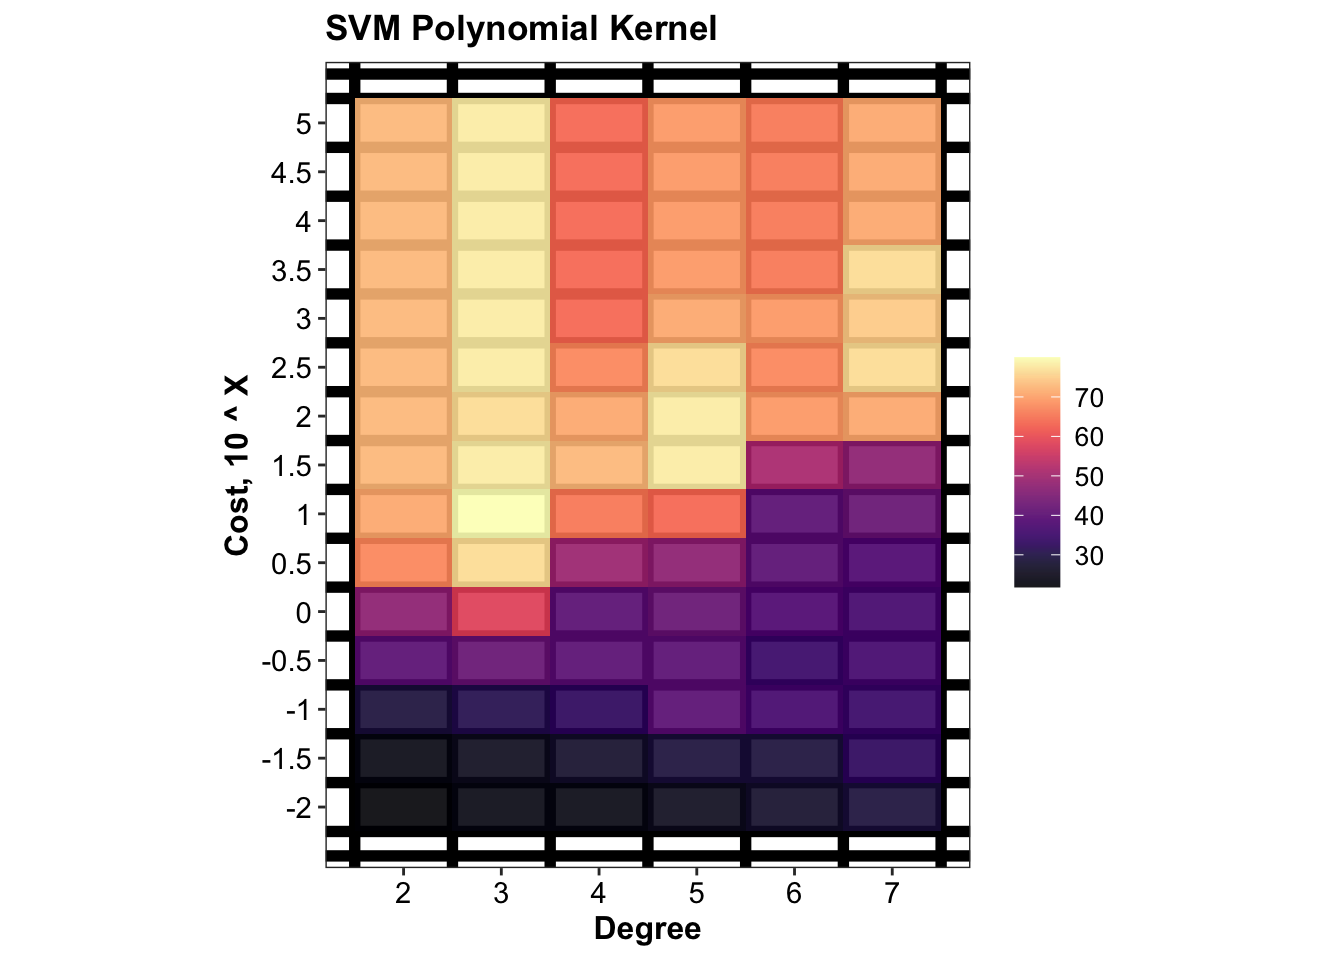
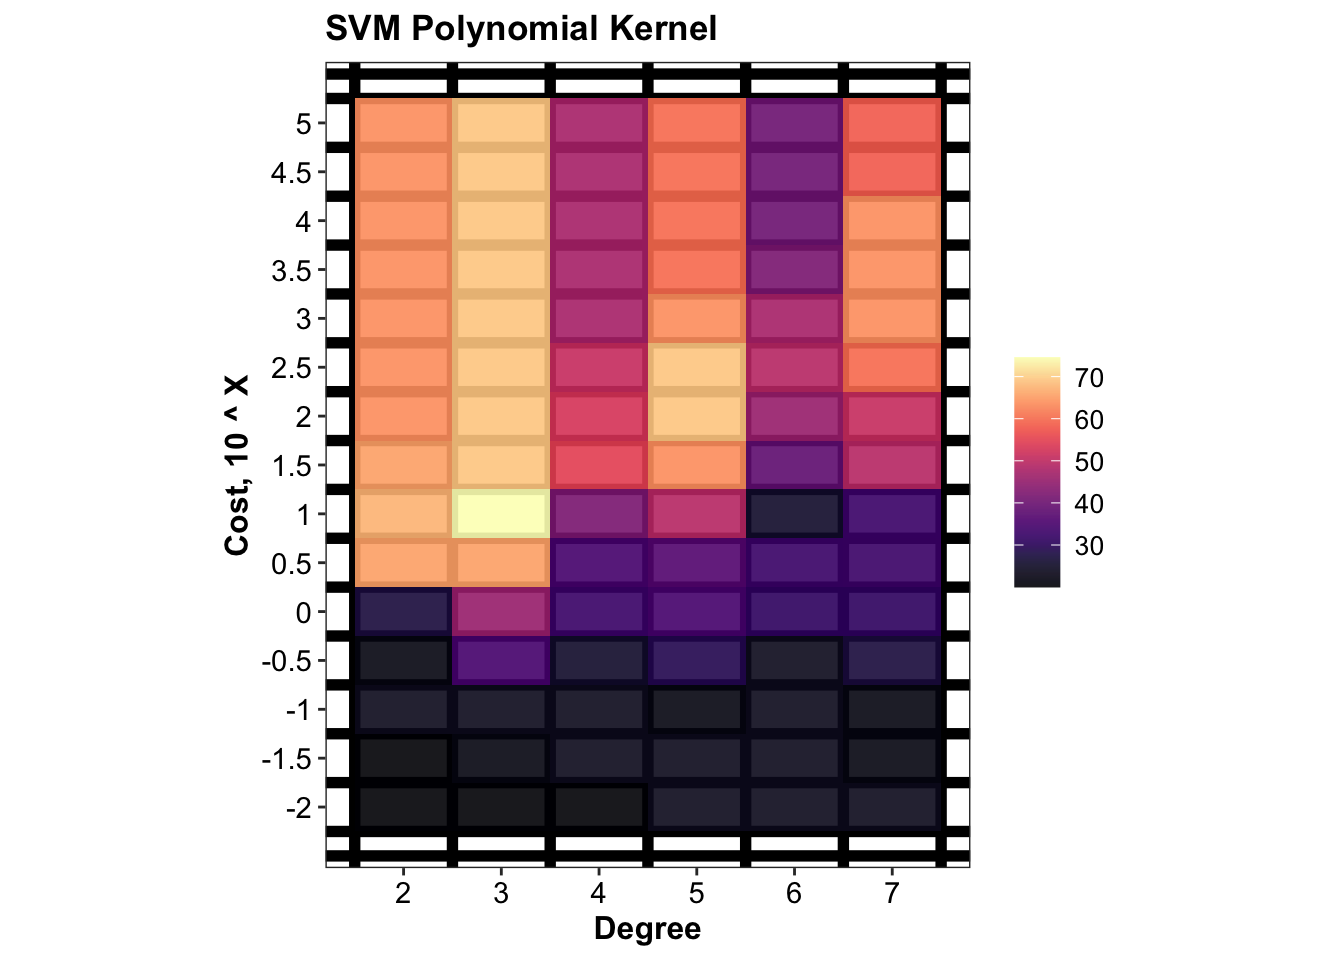
Update

Changed region(s): [[0.25, 0.0938, 0.7188, 0.875], [0.7812, 0.375, 0.8438, 0.5938]]

diff --git a/LemonMLscript.html b/LemonMLscript.html
@@ -408,7 +408,7 @@ library(randomForest)
 
 # finally load tidyverse avoiding key functions from being masked
 library(tidyverse)</code></pre>
-<pre class="r"><code>set.seed(2021)</code></pre>
+<pre class="r"><code>set.seed(2020)</code></pre>
 <pre class="r"><code>theme_set(theme_bw() +
             theme(strip.background = element_blank(),
                   strip.text = element_text(face = &quot;bold&quot;, size = 11),
@@ -524,8 +524,8 @@ plot_ly(PC, x = ~ PC1, y =  ~PC2, z =  ~PC3, color = ~ type) %&gt;%
            zaxis = list(title = paste0(&quot;PC3, &quot;, round(eigen.values[3]/sum(eigen.values)* 100, 1), &quot;% explained&quot;))
          )
   )</code></pre>
-<div id="htmlwidget-44474b3e8cd160f85a98" style="width:768px;height:768px;" class="plotly html-widget"></div>
-<script type="application/json" data-for="htmlwidget-44474b3e8cd160f85a98">{"x":{"visdat":{"10eff4756659c":["function () ","plotlyVisDat"]},"cur_data":"10eff4756659c","attrs":{"10eff4756659c":{"x":{},"y":{},"z":{},"color":{},"alpha_stroke":1,"sizes":[10,100],"spans":[1,20],"type":"scatter3d","mode":"markers","inherit":true}},"layout":{"margin":{"b":40,"l":60,"t":25,"r":10},"title":"3D Interactive PCA","scene":{"xaxis":{"title":"PC1, 38.1% explained"},"yaxis":{"title":"PC2, 13.4% explained"},"zaxis":{"title":"PC3, 9.9% explained"}},"hovermode":"closest","showlegend":true},"source":"A","config":{"showSendToCloud":false},"data":[{"x":[1.29245608021602,0.247327318026684,-2.56149506852184,1.02216854811322,1.02144854861423,0.221324174361603,-0.349045041869286,-0.38581323603689,-1.4821455186857,-2.37404641039611,-2.47684985252583,-3.72650845128052,0.153931476992609,-0.941729558563705,-1.50068529531973,-2.10972450438429,-2.64980884826357,2.13613894537144,-2.37418031730669,0.478180094023784,1.845971833046,-1.45374887861705,1.19418232583957,1.91430361040799,0.066834320382271,1.2127175590955,1.76579567376996],"y":[0.695526168184717,0.590944665242343,-4.1645585667584,1.13948649493847,1.04367370014434,1.38230502942391,-1.98630912501223,1.93770321135043,2.36212232905973,2.14999681352786,2.34829500113664,2.18440733827298,2.75578768016132,3.13716969340722,3.00971177877454,2.81693148679536,1.91489823211499,-1.06640858061311,-2.80357152637204,-0.748953948325587,-1.05436264362873,-2.33095577365992,0.00625489147679137,-0.325453367664005,-1.10722803571808,-0.0557751287201965,0.467505744789272],"z":[-0.153272397784193,-1.07588827668465,4.68854824204557,0.786203717659978,0.029601316090255,0.219153679839619,-3.60423289888726,1.2676637692362,0.708759504389941,1.53239208288905,1.28333869274744,0.31955812246784,1.06207167374108,0.748548555977624,0.877678989830995,1.23804936420199,0.0231827277148735,2.34709583631241,0.298763599570472,-0.868563972996611,1.19368249250316,0.431635919627839,0.141387674072584,1.72946532281876,0.424389806543768,-0.570694829818461,0.0592676898020226],"type":"scatter3d","mode":"markers","name":"adulterated_L_J","marker":{"color":"rgba(102,194,165,1)","line":{"color":"rgba(102,194,165,1)"}},"textfont":{"color":"rgba(102,194,165,1)"},"error_y":{"color":"rgba(102,194,165,1)"},"error_x":{"color":"rgba(102,194,165,1)"},"line":{"color":"rgba(102,194,165,1)"},"frame":null},{"x":[1.11105606348818,0.603039915546309,1.21353582832768,-1.35787019158325,0.19225080551594,-1.21246667581881,-1.45178082404376,-5.68026361836666,-3.16377269996762,-5.02990803003648,-4.96543833095703,-6.93055161425824,-3.2136386608419,-2.25524613183358,-1.90423074658712,-2.40873185573606,-4.16866825809589,-1.24964086402868,0.185187190398568,-2.99485684015602,0.111484893291767,-0.858635390662749,-1.54239194864953,2.07225720546971,1.83438570934901,1.77479111647483],"y":[-0.0859376154201105,-0.142252660854825,0.339587586095071,-0.152230195818979,0.345390365706661,0.260723038277785,-0.00618989387332358,-3.30564951725206,0.580460783900814,-0.00170437349004221,-2.46999529348503,0.183283634350539,-0.808450531398731,-0.558153587576732,-0.36941259219531,-1.77940596421968,-0.563238916320843,0.390317817157598,0.475794889065444,0.429704166707622,0.422730012901104,-0.0546266942913341,0.785547893407879,-0.920957728673648,-0.666756609984423,0.169127635494428],"z":[-0.817328459989141,-0.858211461675529,-0.629340350344767,-2.09800451069364,-1.18016988208466,-1.52645098158561,-1.4207164898772,-0.0830469642365655,-2.06787066093538,-1.90858964613215,-0.3866152999683,1.25046058688634,0.720261245486266,0.527260458222733,0.329804314863947,-0.544993314502189,0.557635333107548,-0.665821738241084,-0.782414382679238,-1.09934787994972,-0.993179712086061,-0.412911159184163,-0.747363795423164,2.28559867183411,1.56272953670896,0.0752991087137491],"type":"scatter3d","mode":"markers","name":"authentic_L_J","marker":{"color":"rgba(252,141,98,1)","line":{"color":"rgba(252,141,98,1)"}},"textfont":{"color":"rgba(252,141,98,1)"},"error_y":{"color":"rgba(252,141,98,1)"},"error_x":{"color":"rgba(252,141,98,1)"},"line":{"color":"rgba(252,141,98,1)"},"frame":null},{"x":[2.05714649351934,2.38757879319326,1.98706631927528,2.46898400690317,1.73913538312126,2.45951764380522,2.38254770319144,2.34711033045327,2.30378739310736,1.75433161273427,1.96369864134024,2.10522487111011,2.21860197339323,2.04435906039219,2.0544860415976,2.215836416796,2.68064964050441,2.25770659306511,1.49205524911911,1.67135779863506,1.90309179689125,2.3097740202158,1.98329764936216,2.31575899554558],"y":[0.423955238003994,0.00123198464260368,-0.700231723171998,0.556190798634687,-0.359181579935747,0.890399063146194,-0.108716821513531,0.395998235607263,0.463757866049253,-0.567813941502302,-0.870631862914607,-0.134451071866694,0.0869403450654771,-0.699917351924463,-0.0693727358762944,-0.0841103318097234,-1.84151340759914,0.334099918173264,-1.29982933293597,-1.17283776144364,-0.368996368680066,-0.588016740559321,-0.74470679201939,-0.339094836108358],"z":[-0.00271240614489784,-0.365869855855512,0.601645728672797,0.612065746738997,-0.35782594284662,0.883021326687573,-0.421366100870039,-0.225735328927382,-0.0744704279938564,-0.649403277140523,-0.977850240900579,-0.786210754766569,-0.226044698531477,-0.224402923208373,-0.615530933647594,-0.473465885341308,2.06979052487044,-0.17176827268735,-0.583666225719361,-1.24209006725691,-0.399331584083848,0.290684984898261,-0.249974151851627,-0.633948204241613],"type":"scatter3d","mode":"markers","name":"lemonade","marker":{"color":"rgba(141,160,203,1)","line":{"color":"rgba(141,160,203,1)"}},"textfont":{"color":"rgba(141,160,203,1)"},"error_y":{"color":"rgba(141,160,203,1)"},"error_x":{"color":"rgba(141,160,203,1)"},"line":{"color":"rgba(141,160,203,1)"},"frame":null}],"highlight":{"on":"plotly_click","persistent":false,"dynamic":false,"selectize":false,"opacityDim":0.2,"selected":{"opacity":1},"debounce":0},"shinyEvents":["plotly_hover","plotly_click","plotly_selected","plotly_relayout","plotly_brushed","plotly_brushing","plotly_clickannotation","plotly_doubleclick","plotly_deselect","plotly_afterplot","plotly_sunburstclick"],"base_url":"https://plot.ly"},"evals":[],"jsHooks":[]}</script>
+<div id="htmlwidget-2514ce28ae593bde0f73" style="width:768px;height:768px;" class="plotly html-widget"></div>
+<script type="application/json" data-for="htmlwidget-2514ce28ae593bde0f73">{"x":{"visdat":{"10eff53bbda29":["function () ","plotlyVisDat"]},"cur_data":"10eff53bbda29","attrs":{"10eff53bbda29":{"x":{},"y":{},"z":{},"color":{},"alpha_stroke":1,"sizes":[10,100],"spans":[1,20],"type":"scatter3d","mode":"markers","inherit":true}},"layout":{"margin":{"b":40,"l":60,"t":25,"r":10},"title":"3D Interactive PCA","scene":{"xaxis":{"title":"PC1, 38.1% explained"},"yaxis":{"title":"PC2, 13.4% explained"},"zaxis":{"title":"PC3, 9.9% explained"}},"hovermode":"closest","showlegend":true},"source":"A","config":{"showSendToCloud":false},"data":[{"x":[1.29245608021602,0.247327318026684,-2.56149506852184,1.02216854811322,1.02144854861423,0.221324174361603,-0.349045041869286,-0.38581323603689,-1.4821455186857,-2.37404641039611,-2.47684985252583,-3.72650845128052,0.153931476992609,-0.941729558563705,-1.50068529531973,-2.10972450438429,-2.64980884826357,2.13613894537144,-2.37418031730669,0.478180094023784,1.845971833046,-1.45374887861705,1.19418232583957,1.91430361040799,0.066834320382271,1.2127175590955,1.76579567376996],"y":[0.695526168184717,0.590944665242343,-4.1645585667584,1.13948649493847,1.04367370014434,1.38230502942391,-1.98630912501223,1.93770321135043,2.36212232905973,2.14999681352786,2.34829500113664,2.18440733827298,2.75578768016132,3.13716969340722,3.00971177877454,2.81693148679536,1.91489823211499,-1.06640858061311,-2.80357152637204,-0.748953948325587,-1.05436264362873,-2.33095577365992,0.00625489147679137,-0.325453367664005,-1.10722803571808,-0.0557751287201965,0.467505744789272],"z":[-0.153272397784193,-1.07588827668465,4.68854824204557,0.786203717659978,0.029601316090255,0.219153679839619,-3.60423289888726,1.2676637692362,0.708759504389941,1.53239208288905,1.28333869274744,0.31955812246784,1.06207167374108,0.748548555977624,0.877678989830995,1.23804936420199,0.0231827277148735,2.34709583631241,0.298763599570472,-0.868563972996611,1.19368249250316,0.431635919627839,0.141387674072584,1.72946532281876,0.424389806543768,-0.570694829818461,0.0592676898020226],"type":"scatter3d","mode":"markers","name":"adulterated_L_J","marker":{"color":"rgba(102,194,165,1)","line":{"color":"rgba(102,194,165,1)"}},"textfont":{"color":"rgba(102,194,165,1)"},"error_y":{"color":"rgba(102,194,165,1)"},"error_x":{"color":"rgba(102,194,165,1)"},"line":{"color":"rgba(102,194,165,1)"},"frame":null},{"x":[1.11105606348818,0.603039915546309,1.21353582832768,-1.35787019158325,0.19225080551594,-1.21246667581881,-1.45178082404376,-5.68026361836666,-3.16377269996762,-5.02990803003648,-4.96543833095703,-6.93055161425824,-3.2136386608419,-2.25524613183358,-1.90423074658712,-2.40873185573606,-4.16866825809589,-1.24964086402868,0.185187190398568,-2.99485684015602,0.111484893291767,-0.858635390662749,-1.54239194864953,2.07225720546971,1.83438570934901,1.77479111647483],"y":[-0.0859376154201105,-0.142252660854825,0.339587586095071,-0.152230195818979,0.345390365706661,0.260723038277785,-0.00618989387332358,-3.30564951725206,0.580460783900814,-0.00170437349004221,-2.46999529348503,0.183283634350539,-0.808450531398731,-0.558153587576732,-0.36941259219531,-1.77940596421968,-0.563238916320843,0.390317817157598,0.475794889065444,0.429704166707622,0.422730012901104,-0.0546266942913341,0.785547893407879,-0.920957728673648,-0.666756609984423,0.169127635494428],"z":[-0.817328459989141,-0.858211461675529,-0.629340350344767,-2.09800451069364,-1.18016988208466,-1.52645098158561,-1.4207164898772,-0.0830469642365655,-2.06787066093538,-1.90858964613215,-0.3866152999683,1.25046058688634,0.720261245486266,0.527260458222733,0.329804314863947,-0.544993314502189,0.557635333107548,-0.665821738241084,-0.782414382679238,-1.09934787994972,-0.993179712086061,-0.412911159184163,-0.747363795423164,2.28559867183411,1.56272953670896,0.0752991087137491],"type":"scatter3d","mode":"markers","name":"authentic_L_J","marker":{"color":"rgba(252,141,98,1)","line":{"color":"rgba(252,141,98,1)"}},"textfont":{"color":"rgba(252,141,98,1)"},"error_y":{"color":"rgba(252,141,98,1)"},"error_x":{"color":"rgba(252,141,98,1)"},"line":{"color":"rgba(252,141,98,1)"},"frame":null},{"x":[2.05714649351934,2.38757879319326,1.98706631927528,2.46898400690317,1.73913538312126,2.45951764380522,2.38254770319144,2.34711033045327,2.30378739310736,1.75433161273427,1.96369864134024,2.10522487111011,2.21860197339323,2.04435906039219,2.0544860415976,2.215836416796,2.68064964050441,2.25770659306511,1.49205524911911,1.67135779863506,1.90309179689125,2.3097740202158,1.98329764936216,2.31575899554558],"y":[0.423955238003994,0.00123198464260368,-0.700231723171998,0.556190798634687,-0.359181579935747,0.890399063146194,-0.108716821513531,0.395998235607263,0.463757866049253,-0.567813941502302,-0.870631862914607,-0.134451071866694,0.0869403450654771,-0.699917351924463,-0.0693727358762944,-0.0841103318097234,-1.84151340759914,0.334099918173264,-1.29982933293597,-1.17283776144364,-0.368996368680066,-0.588016740559321,-0.74470679201939,-0.339094836108358],"z":[-0.00271240614489784,-0.365869855855512,0.601645728672797,0.612065746738997,-0.35782594284662,0.883021326687573,-0.421366100870039,-0.225735328927382,-0.0744704279938564,-0.649403277140523,-0.977850240900579,-0.786210754766569,-0.226044698531477,-0.224402923208373,-0.615530933647594,-0.473465885341308,2.06979052487044,-0.17176827268735,-0.583666225719361,-1.24209006725691,-0.399331584083848,0.290684984898261,-0.249974151851627,-0.633948204241613],"type":"scatter3d","mode":"markers","name":"lemonade","marker":{"color":"rgba(141,160,203,1)","line":{"color":"rgba(141,160,203,1)"}},"textfont":{"color":"rgba(141,160,203,1)"},"error_y":{"color":"rgba(141,160,203,1)"},"error_x":{"color":"rgba(141,160,203,1)"},"line":{"color":"rgba(141,160,203,1)"},"frame":null}],"highlight":{"on":"plotly_click","persistent":false,"dynamic":false,"selectize":false,"opacityDim":0.2,"selected":{"opacity":1},"debounce":0},"shinyEvents":["plotly_hover","plotly_click","plotly_selected","plotly_relayout","plotly_brushed","plotly_brushing","plotly_clickannotation","plotly_doubleclick","plotly_deselect","plotly_afterplot","plotly_sunburstclick"],"base_url":"https://plot.ly"},"evals":[],"jsHooks":[]}</script>
 </div>
 <div id="lda-full-data" class="section level2">
 <h2><span class="header-section-number">3.4</span> LDA (full data)</h2>
@@ -767,16 +767,16 @@ d.tune.svm.radial</code></pre>
 ## # Groups:   gamma [17]
 ##     gamma    cost accuracy.mean accuracy.sd
 ##     &lt;dbl&gt;   &lt;dbl&gt;         &lt;dbl&gt;       &lt;dbl&gt;
-##  1 0.001    100            81.8        9.09
-##  2 0.0316    10            81.8       11.1 
-##  3 0.1       10            81.8        9.09
-##  4 0.1       31.6          81.8        9.09
-##  5 0.1      100            81.8        9.09
-##  6 0.1      316.           81.8        9.09
-##  7 0.1     1000            81.8        9.09
-##  8 0.1     3162.           81.8        9.09
-##  9 0.1    10000            81.8        9.09
-## 10 0.1    31623.           81.8        9.09
+##  1 0.1       3.16          80.0        17.5
+##  2 0.1       1             78.2        15.2
+##  3 0.0316   10             76.4        19.9
+##  4 0.1      10             76.4        18.9
+##  5 0.01     31.6           74.5        17.5
+##  6 0.0316   31.6           74.5        17.5
+##  7 0.1      31.6           74.5        17.5
+##  8 0.1     100             74.5        19.7
+##  9 0.1     316.            74.5        19.7
+## 10 0.1    1000             74.5        19.7
 ## # … with 245 more rows</code></pre>
 <pre class="r"><code># Func. def: plotting SVM hyper-parameter tuning result
 func.plot.tune.HyperParam = function( data, hyper1, hyper2){ 
@@ -827,16 +827,16 @@ d.tune.svm.polynomial</code></pre>
 ## # Groups:   degree [6]
 ##    degree     cost accuracy.mean accuracy.sd
 ##     &lt;int&gt;    &lt;dbl&gt;         &lt;dbl&gt;       &lt;dbl&gt;
-##  1      3     10            80.0        14.9
-##  2      3     31.6          78.2        16.5
-##  3      3    316.           78.2        16.5
-##  4      3   1000            78.2        16.5
-##  5      3   3162.           78.2        16.5
-##  6      3  10000            78.2        16.5
-##  7      3  31623.           78.2        16.5
-##  8      3 100000            78.2        16.5
-##  9      5     31.6          78.2        10.4
-## 10      5    100            78.2        18.9
+##  1      3     10            74.5        11.9
+##  2      3     31.6          69.1        13.8
+##  3      3    100            69.1        10.4
+##  4      3    316.           69.1        10.4
+##  5      3   1000            69.1        10.4
+##  6      3   3162.           69.1        10.4
+##  7      3  10000            69.1        10.4
+##  8      3  31623.           69.1        10.4
+##  9      3 100000            69.1        10.4
+## 10      5    100            69.1        13.8
 ## # … with 80 more rows</code></pre>
 <pre class="r"><code># plot tune result of polynomial kernel
 plt.svm.tune.polynomial = 
@@ -869,21 +869,21 @@ d.tune.svm.linear</code></pre>
 <pre><code>## # A tibble: 15 x 3
 ##           cost accuracy.mean accuracy.sd
 ##          &lt;dbl&gt;         &lt;dbl&gt;       &lt;dbl&gt;
-##  1      0.316           80.0        7.61
-##  2      1               76.4       13.8 
-##  3      3.16            76.4       10.4 
-##  4      0.1             72.7        6.43
-##  5     10               72.7        6.43
-##  6    316.              72.7       11.1 
-##  7   1000               72.7       11.1 
-##  8   3162.              72.7       11.1 
-##  9  10000               72.7       11.1 
-## 10  31623.              72.7       11.1 
-## 11 100000               72.7       11.1 
-## 12     31.6             70.9        9.96
-## 13    100               70.9        9.96
-## 14      0.0316          69.1        4.98
-## 15      0.01            41.8       13.8</code></pre>
+##  1      0.316           63.6        18.2
+##  2      1               63.6        20.3
+##  3      3.16            63.6        20.3
+##  4      0.1             61.8        14.9
+##  5     10               56.4        17.5
+##  6     31.6             56.4        17.5
+##  7    100               56.4        17.5
+##  8    316.              56.4        19.7
+##  9      0.0316          54.5        17.0
+## 10   1000               54.5        20.3
+## 11   3162.              50.9        23.7
+## 12  10000               50.9        23.7
+## 13  31623.              50.9        23.7
+## 14 100000               50.9        23.7
+## 15      0.01            41.8        19.9</code></pre>
 <pre class="r"><code>d.tune.svm.linear %&gt;% ggplot(aes(x = cost, y = accuracy.mean)) + 
   geom_bar(stat = &quot;identity&quot;, alpha = .8) + geom_point() + geom_line() + 
   scale_x_log10() </code></pre>
@@ -896,9 +896,9 @@ rbind(k1, k2, k3)</code></pre>
 <pre><code>## # A tibble: 3 x 3
 ##   accuracy.mean accuracy.sd kernel    
 ##           &lt;dbl&gt;       &lt;dbl&gt; &lt;chr&gt;     
-## 1          81.8        9.09 radial    
-## 2          80.0       14.9  polynomial
-## 3          80.0        7.61 linear</code></pre>
+## 1          80.0        17.5 radial    
+## 2          74.5        11.9 polynomial
+## 3          63.6        18.2 linear</code></pre>
 <pre class="r"><code>cv.svm = k1 %&gt;% mutate(model = &quot;SVM&quot;)</code></pre>
 </div>
 </div>
@@ -910,10 +910,10 @@ rbind(k1, k2, k3)</code></pre>
 
 accuracy.training.svm = sum(predict(mdl.svm) == trainingSet.scaled$type) / nrow(trainingSet.scaled)*100
 cat(&quot;Accuracy on the training set is&quot;, accuracy.training.svm, &quot;%.&quot;)</code></pre>
-<pre><code>## Accuracy on the training set is 89.09091 %.</code></pre>
+<pre><code>## Accuracy on the training set is 96.36364 %.</code></pre>
 <pre class="r"><code>accuracy.testing.svm = sum(predict(mdl.svm, newdata = testingSet.scaled) == testingSet.scaled$type) / nrow(testingSet.scaled) *100
 cat(&quot;Accuracy on the testing set is&quot;, accuracy.testing.svm, &quot;%.&quot;)</code></pre>
-<pre><code>## Accuracy on the testing set is 63.63636 %.</code></pre>
+<pre><code>## Accuracy on the testing set is 81.81818 %.</code></pre>
 <pre class="r"><code># confusion matrix
 predict.SVM = predict(mdl.svm, newdata = testingSet.scaled)
 
@@ -949,7 +949,7 @@ mdl.lda = lda(data = trainingSet.scaled, type ~., prior = rep(1/3, 3))
 # Prediction on the training set
 accuracy.training.LDA = sum(predict(mdl.lda)$class == trainingSet.scaled$type) / nrow(trainingSet.scaled) * 100
 cat(&quot;Accuracy on the training set by Linear Discriminant Analysis is&quot;, accuracy.training.LDA, &quot;%.&quot; )</code></pre>
-<pre><code>## Accuracy on the training set by Linear Discriminant Analysis is 87.27273 %.</code></pre>
+<pre><code>## Accuracy on the training set by Linear Discriminant Analysis is 83.63636 %.</code></pre>
 <pre class="r"><code># Prediction on the testing set 
 fitted.lda = predict(mdl.lda, newdata = testingSet.scaled)
 predict.LDA = fitted.lda$class
@@ -959,7 +959,7 @@ cf.lda = table(predict.LDA, testingSet.scaled$type) %&gt;%
 
 accuracy.testing.lda = sum(predict(mdl.lda, newdata = testingSet.scaled)$class == testingSet.scaled$type) / nrow(testingSet.scaled) * 100
 cat(&quot;Accuracy on the testing set by Linear Discriminant Analysis is&quot;, accuracy.testing.lda, &quot;%.&quot;)</code></pre>
-<pre><code>## Accuracy on the testing set by Linear Discriminant Analysis is 59.09091 %.</code></pre>
+<pre><code>## Accuracy on the testing set by Linear Discriminant Analysis is 81.81818 %.</code></pre>
 <pre class="r"><code># probability distribution sample-wise
 d.prob.lda = fitted.lda$posterior %&gt;% as_tibble() %&gt;% mutate(model = &quot;LDA&quot;)</code></pre>
 </div>
@@ -997,16 +997,16 @@ d.tune.RF</code></pre>
 ## # Groups:   trees [10]
 ##    trees features accuracy.mean accuracy.sd
 ##    &lt;dbl&gt;    &lt;int&gt;         &lt;dbl&gt;       &lt;dbl&gt;
-##  1   100        3          81.8        6.43
-##  2   100        4          81.8        6.43
-##  3   200        6          81.8        6.43
-##  4   400        5          81.8        6.43
-##  5   400        6          81.8        6.43
-##  6   500        5          81.8        6.43
-##  7   500        6          81.8        6.43
-##  8   600        3          81.8        6.43
-##  9   600        5          81.8        6.43
-## 10   600        6          81.8        6.43
+##  1   400        3          78.2       10.4 
+##  2   500        2          78.2       10.4 
+##  3   500        5          78.2       10.4 
+##  4   700        2          78.2       10.4 
+##  5  1000        2          78.2       10.4 
+##  6   100        2          76.4       12.2 
+##  7   100        3          76.4        8.13
+##  8   100        4          76.4       12.2 
+##  9   200        2          76.4        8.13
+## 10   200        5          76.4        8.13
 ## # … with 60 more rows</code></pre>
 <pre class="r"><code>plt.RF.tune = d.tune.RF %&gt;% 
   func.plot.tune.HyperParam(hyper1 = &quot;trees&quot;, hyper2 = &quot;features&quot;) +
@@ -1036,7 +1036,7 @@ cf.RF = table(predict.RF, testingSet.scaled$type) %&gt;%
 
 accuracy.testing.RF = sum(predict.RF == testingSet.scaled$type) / nrow(testingSet.scaled) * 100
 cat(&quot;Accuracy on the testing set using Random Forest is&quot;, accuracy.testing.RF, &quot;%&quot;) </code></pre>
-<pre><code>## Accuracy on the testing set using Random Forest is 81.81818 %</code></pre>
+<pre><code>## Accuracy on the testing set using Random Forest is 90.90909 %</code></pre>
 <pre class="r"><code># Probability distribution of predicted test set
 d.prob.RF = predict(mdl.rf, testingSet.scaled, type = &quot;prob&quot;) %&gt;%
   as_tibble() %&gt;%
@@ -1074,7 +1074,7 @@ cf.NB = table(predict.NB, testingSet.scaled$type) %&gt;%
 
 accuracy.testing.NB = sum(predict.NB == testingSet.scaled$type)/nrow(testingSet.scaled) * 100
 cat(&quot;Accuracy on the testing set using Naive Bayes is&quot;, accuracy.testing.NB, &quot;%.&quot;)</code></pre>
-<pre><code>## Accuracy on the testing set using Naive Bayes is 77.27273 %.</code></pre>
+<pre><code>## Accuracy on the testing set using Naive Bayes is 81.81818 %.</code></pre>
 <pre class="r"><code>d.prob.NB = predict(mdl.nb, testingSet.scaled[, -1], type = &quot;raw&quot;)  %&gt;%
   as_tibble() %&gt;% mutate(model = &quot;NB&quot;)
 # d.prob.NB</code></pre>
@@ -1112,7 +1112,7 @@ fitted.softmax.train = predict(softmax.cv, newx = trainingSet.scaled[, -1] %&gt;
 
 accuracy.training.LR = sum(fitted.softmax.train == trainingSet.scaled$type) / nrow(trainingSet.scaled) * 100
 cat(&quot;Accuracy on the training set using lasso-regularized softmax regression is&quot;, accuracy.training.LR, &quot;%.&quot;) </code></pre>
-<pre><code>## Accuracy on the training set using lasso-regularized softmax regression is 74.54545 %.</code></pre>
+<pre><code>## Accuracy on the training set using lasso-regularized softmax regression is 56.36364 %.</code></pre>
 <pre class="r"><code># Prediction on the testing set
 predict.softmax = predict(softmax.cv, newx = testingSet.scaled[, -1] %&gt;% as.matrix(),
                           s = softmax.cv$lambda.1se, type = &quot;class&quot;) %&gt;% c()
@@ -1122,13 +1122,12 @@ cf.LR = table(predict.softmax, testingSet.scaled$type) %&gt;%
 
 accuracy.testing.LR = sum(predict.softmax == testingSet.scaled$type) / nrow(testingSet.scaled) * 100
 cat(&quot;Accuracy on the training set using lasso-regularized softmax regression is&quot;, accuracy.testing.LR, &quot;%.&quot;) </code></pre>
-<pre><code>## Accuracy on the training set using lasso-regularized softmax regression is 63.63636 %.</code></pre>
+<pre><code>## Accuracy on the training set using lasso-regularized softmax regression is 68.18182 %.</code></pre>
 <pre class="r"><code>table(predict.softmax, testingSet.scaled$type)</code></pre>
 <pre><code>##                  
 ## predict.softmax   adulterated_L_J authentic_L_J lemonade
-##   adulterated_L_J               3             1        0
-##   authentic_L_J                 2             4        0
-##   lemonade                      3             2        7</code></pre>
+##   adulterated_L_J               8             4        0
+##   lemonade                      0             3        7</code></pre>
 <pre class="r"><code># Predicted probability distribution on the test set
 d.prob.LR = predict(softmax.cv, newx = testingSet.scaled[, -1] %&gt;% as.matrix(),
                     s = softmax.cv$lambda.1se, type = &quot;response&quot;) %&gt;%
